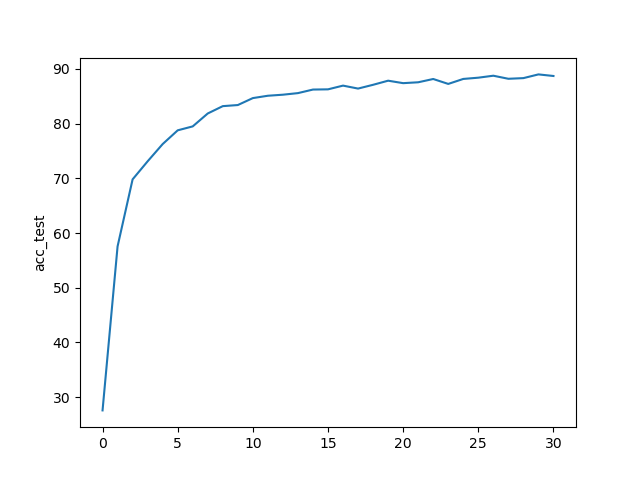
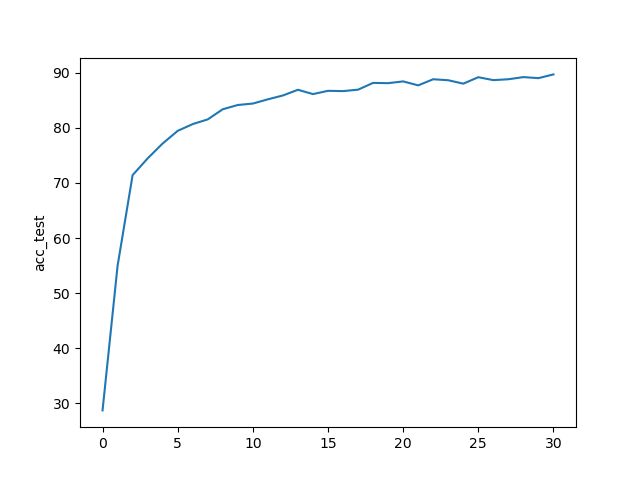
1

diff --git a/main_fed.py b/main_fed.py
@@ -170,6 +170,9 @@ if __name__ == '__main__':
             total_train += args.local_ep
         elif args.comm_scheme == 'SGD':
             total_train += args.local_ep
+        else :
+            print("algorithm error")
+
     print("总训练轮次")
     print(total_train)
 

diff --git a/utils/options.py b/utils/options.py
@@ -55,7 +55,7 @@ def args_parser():
     )
     parser.add_argument(
         '--comm_scheme',
-        default='adaptiveQSGD'
+        default='SGD'
     )
     args = parser.parse_args()
 
